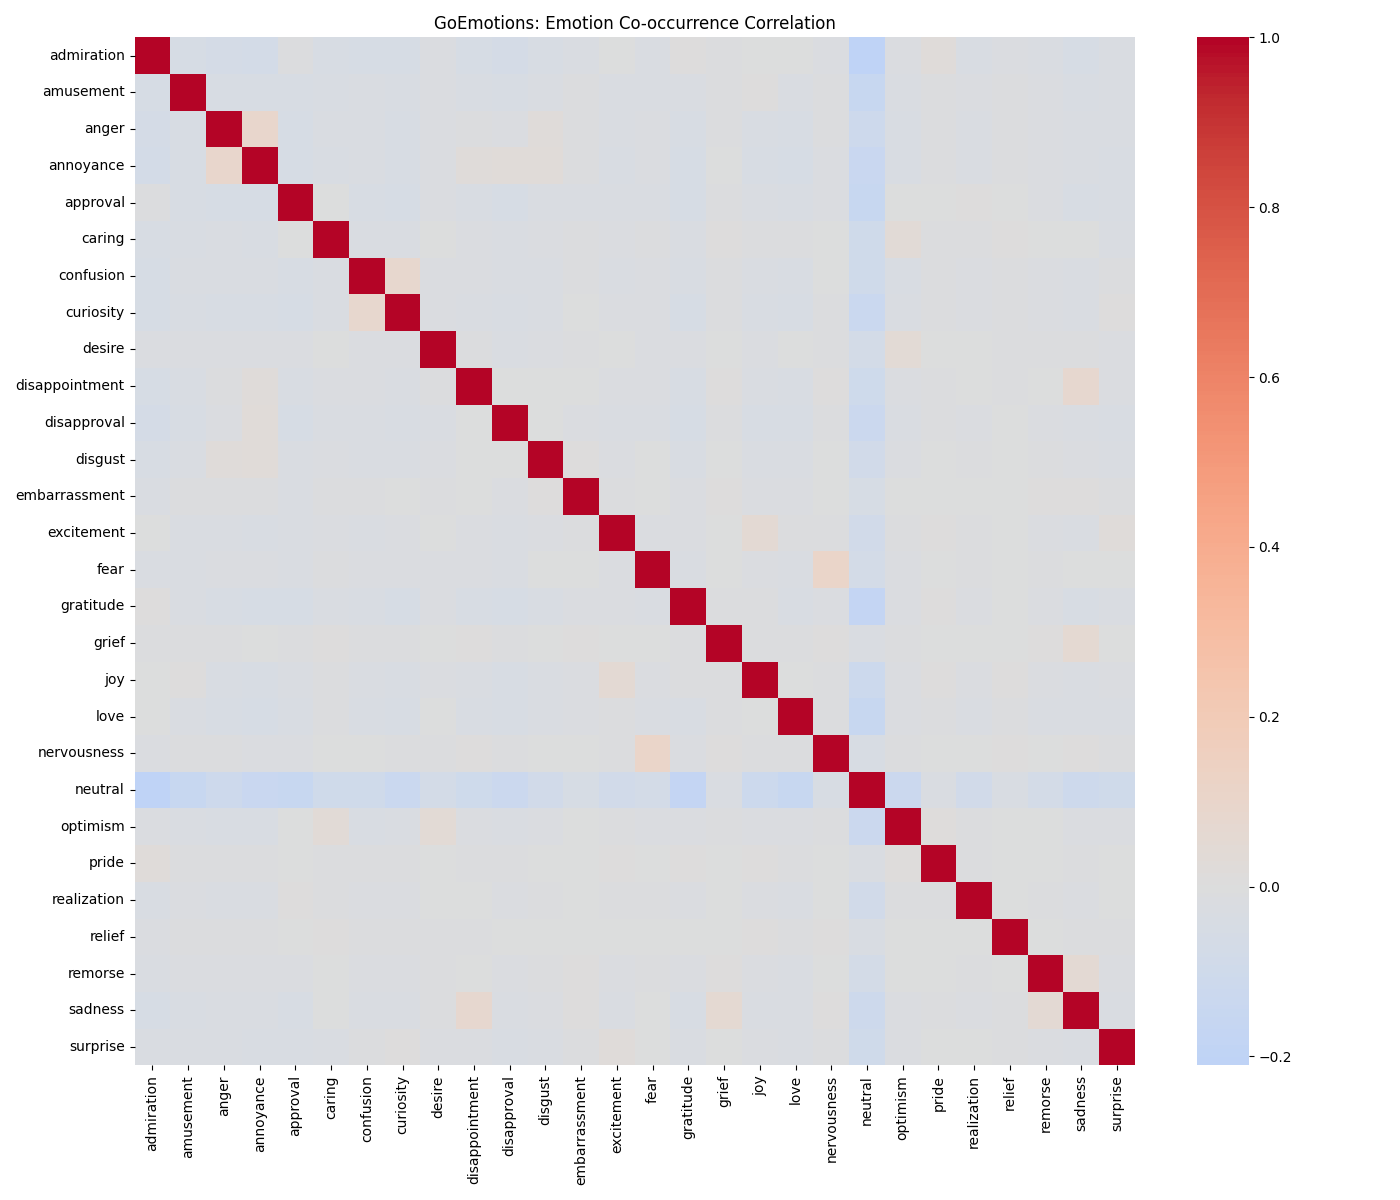
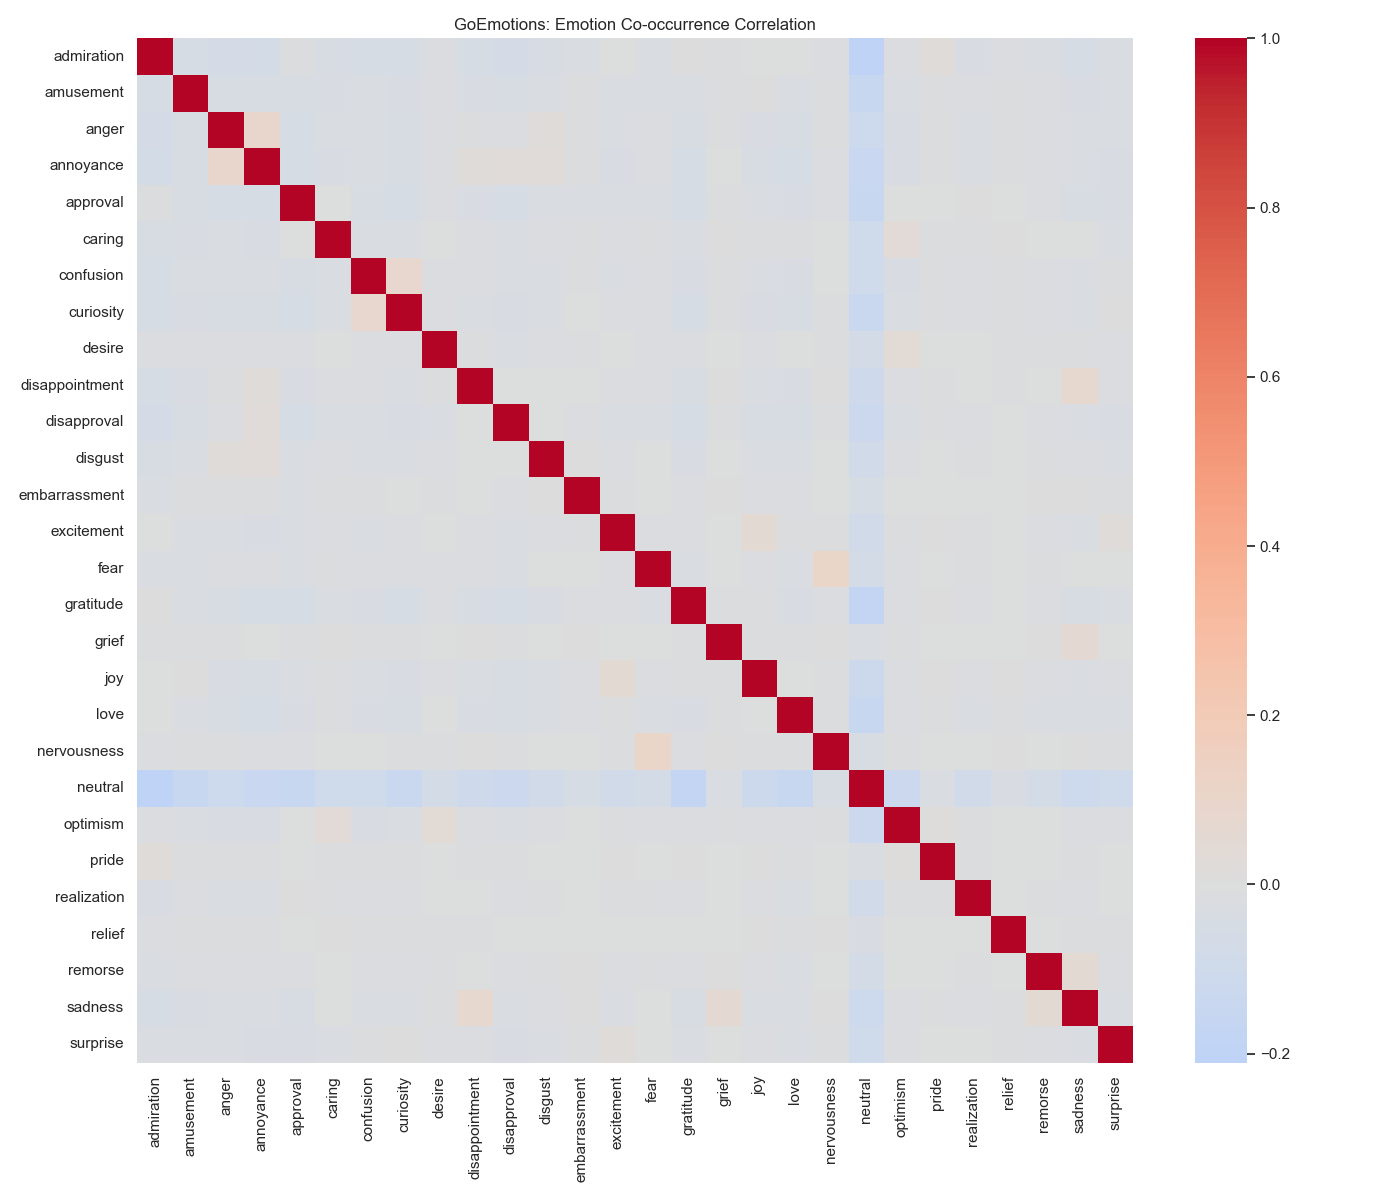
Update with pics

diff --git a/reports/analyze_emotions.py b/reports/analyze_emotions.py
@@ -4,13 +4,51 @@ import matplotlib.pyplot as plt
 import seaborn as sns
 from collections import Counter
 from sklearn.preprocessing import MultiLabelBinarizer
+from wordcloud import WordCloud
+import os
+from datetime import datetime
+import numpy as np
+from pandas import DataFrame
+from typing import Any
 
-with open("data/processed/goemotions_train.json", "r") as f:
+
+
+with open("data/processed/goemotions_cleaned.json", "r") as f:
     data = json.load(f)
 
 df = pd.DataFrame(data)
-
 df = df[df['labels'].apply(lambda x: isinstance(x, list) and len(x) > 0)]
+
+# Now that df exists, fit the MultiLabelBinarizer
+mlb = MultiLabelBinarizer()
+binary_matrix: np.ndarray = mlb.fit_transform(df["labels"])
+columns: list[str] = list(mlb.classes_)
+
+binary_df: DataFrame = pd.DataFrame(binary_matrix, columns=columns)
+correlation_matrix: DataFrame = binary_df.corr()
+
+# --- Setup ---
+sns.set(style="whitegrid")
+os.makedirs("reports", exist_ok=True)
+
+# --- GoEmotions Analysis ---
+with open("data/processed/goemotions_cleaned.json", "r") as f:
+    data = json.load(f)
+
+df = pd.DataFrame(data)
+df = df[df['labels'].apply(lambda x: isinstance(x, list) and len(x) > 0)]
+
+with open("data/processed/reddit_scored.json", "r") as f:
+    reddit = json.load(f)
+
+reddit_df = pd.DataFrame([{
+    "text": post["text"],
+    "subreddit": post.get("subreddit", "unknown"),
+    "length": len(post["text"].split()),
+    "anxiety_score": post.get("anxiety_score", 0),
+
+} for post in reddit if "anxiety_score" in post])
+
 
 # --- Plot 1: Emotion Frequency ---
 all_labels = [label for sublist in df['labels'] for label in sublist]
@@ -25,16 +63,158 @@ plt.tight_layout()
 plt.savefig("reports/emotion_frequency.png")
 plt.show()
 
-# --- Plot 2: Emotion Co-occurrence Heatmap ---
-mlb = MultiLabelBinarizer()
-binary_matrix = mlb.fit_transform(df["labels"])
-binary_df = pd.DataFrame(binary_matrix, columns=mlb.classes_)
-
-correlation_matrix = binary_df.corr()
-
+# --- Plot 2: Remade Emotion Co-occurrence Heatmap ---
 plt.figure(figsize=(14, 12))
-sns.heatmap(correlation_matrix, cmap="coolwarm", center=0, annot=False)
-plt.title("GoEmotions: Emotion Co-occurrence Correlation")
+mask = np.triu(np.ones_like(correlation_matrix, dtype=bool))  # Upper triangle mask
+sns.heatmap(
+    correlation_matrix,
+    mask=mask,
+    cmap="RdBu_r",
+    center=0,
+    linewidths=0.5,
+    square=True,
+    cbar_kws={"shrink": 0.8},
+    annot=True,
+    fmt=".2f",
+    annot_kws={"size": 7},
+)
+plt.title("GoEmotions: Emotion Co-occurrence Correlation (Improved)")
+plt.xticks(rotation=45, ha='right')
+plt.yticks(rotation=0)
 plt.tight_layout()
-plt.savefig("reports/emotion_correlation.png")
+plt.savefig("reports/emotion_correlation_cleaned.png")
 plt.show()
+
+
+# --- Plot 3: Quadrant-Style, Less Cluttered ---
+filtered = reddit_df[
+    (reddit_df["length"] <= 1500) &
+    (reddit_df["anxiety_score"] <= 100) &
+    (reddit_df["anxiety_score"] > 0)
+]
+
+median_len = filtered["length"].median()
+median_anx = filtered["anxiety_score"].median()
+
+plt.figure(figsize=(12, 8))
+
+# Add density-based background using hexbin
+plt.hexbin(filtered["length"], filtered["anxiety_score"], gridsize=50, cmap="Blues", mincnt=1)
+
+# Overlay jittered scatterplot
+sns.stripplot(
+    data=filtered,
+    x="length",
+    y="anxiety_score",
+    color="black",
+    alpha=0.2,
+    jitter=0.25,
+    size=2
+)
+
+# Quadrant lines
+plt.axhline(median_anx, color="gray", linestyle="--", linewidth=1)
+plt.axvline(median_len, color="gray", linestyle="--", linewidth=1)
+
+# Quadrant labels
+plt.text(median_len + 50, median_anx + 5, "Long + High Anxiety", fontsize=10, color="crimson")
+plt.text(median_len - 350, median_anx + 5, "Short + High Anxiety", fontsize=10, color="purple")
+plt.text(median_len - 350, median_anx - 10, "Short + Low Anxiety", fontsize=10, color="steelblue")
+plt.text(median_len + 50, median_anx - 10, "Long + Low Anxiety", fontsize=10, color="green")
+
+# Labels and layout
+plt.title("Anxiety Score vs Post Length (Quadrant View + Density)")
+plt.xlabel("Post Length (Words)")
+plt.ylabel("Anxiety Score")
+plt.grid(True)
+plt.tight_layout()
+plt.savefig("reports/anxiety_quadrant_density.png")
+plt.show()
+
+# --- Plot 3.5: Bubble Plot for Anxiety Score vs Post Length (Bubble Size = Frequency) ---
+# Group by length and anxiety score to count frequency of each combination
+bubble_data = filtered.groupby(["length", "anxiety_score"]).size().reset_index(name="frequency")
+
+# Normalize frequency for bubble size (bubbles won't be too large)
+max_freq = bubble_data["frequency"].max()
+bubble_data["size"] = bubble_data["frequency"] / max_freq * 500  # Scale to get a good bubble size
+
+plt.figure(figsize=(12, 8))
+
+# Plot the bubble plot with color representing anxiety score, and size representing frequency
+sns.scatterplot(
+    data=bubble_data,
+    x="length",
+    y="anxiety_score",
+    size="size",
+    hue="anxiety_score",
+    sizes=(20, 200),  # Controls min/max bubble size
+    palette="coolwarm",  # Color map
+    alpha=0.7,
+    legend=False
+)
+
+# Add labels and styling
+plt.title("Anxiety Score vs Post Length (Bubble Plot - Size: Post Frequency)")
+plt.xlabel("Post Length (Words)")
+plt.ylabel("Anxiety Score")
+plt.grid(True)
+plt.tight_layout()
+plt.savefig("reports/anxiety_bubble_plot.png")
+plt.show()
+
+
+# --- Fixed Plot 4: Subreddit vs Average Anxiety Score ---
+avg_anxiety = reddit_df.groupby("subreddit")["anxiety_score"].mean().reset_index()
+
+plt.figure(figsize=(10, 6))
+sns.barplot(data=avg_anxiety, x="subreddit", y="anxiety_score", color="skyblue")
+plt.title("Average Anxiety Score by Subreddit")
+plt.ylabel("Average Anxiety Score")
+plt.xlabel("Subreddit")
+plt.tight_layout()
+plt.savefig("reports/subreddit_vs_anxiety.png")
+plt.show()
+
+
+
+# --- Plot 5: Word Cloud for High Anxiety Posts ---
+high_anx = reddit_df[reddit_df["anxiety_score"] > 0.7]
+all_text = " ".join(high_anx["text"].values)
+wc = WordCloud(width=800, height=400, background_color="white").generate(all_text)
+
+plt.figure(figsize=(12, 6))
+plt.imshow(wc, interpolation="bilinear")
+plt.axis("off")
+plt.title("Top Words in High Anxiety Posts")
+plt.tight_layout()
+plt.savefig("reports/wordcloud_high_anxiety.png")
+plt.show()
+
+possible_emotions = ["anxiety_score", "anger_score", "sadness_score"]
+emotion_cols = [col for col in possible_emotions if col in reddit_df.columns]
+
+# --- Plot 6: Distribution of Emotion Scores ---
+plt.figure(figsize=(10, 6))
+for col in emotion_cols:
+    sns.kdeplot(reddit_df[col], label=col)
+plt.title("Distribution of Emotion Scores")
+plt.xlabel("Score")
+plt.ylabel("Density")
+plt.legend()
+plt.tight_layout()
+plt.savefig("reports/emotion_score_distributions.png")
+plt.show()
+
+# --- Plot 7: Emotion Intensity by Hour ---
+if "hour" in reddit_df.columns:
+    hourly_avg = reddit_df.groupby("hour")[emotion_cols].mean().reset_index().melt(id_vars="hour")
+
+    plt.figure(figsize=(12, 6))
+    sns.lineplot(data=hourly_avg, x="hour", y="value", hue="variable", marker="o")
+    plt.title("Emotion Scores by Hour of Day")
+    plt.xlabel("Hour (UTC)")
+    plt.ylabel("Average Score")
+    plt.tight_layout()
+    plt.savefig("reports/hourly_emotion_trends.png")
+    plt.show()
